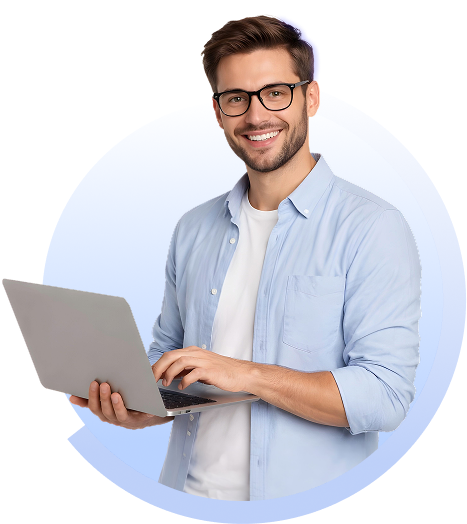
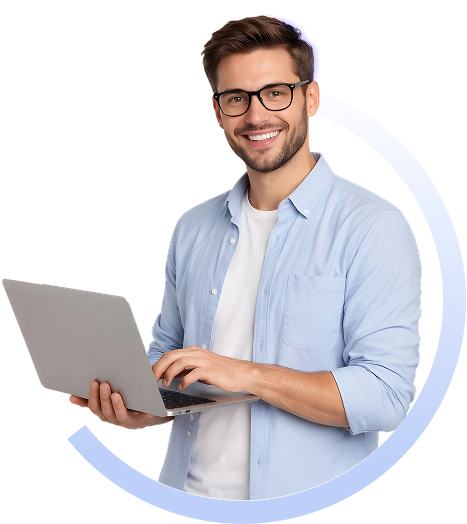
qwertyu

diff --git a/src/components/Hero.jsx b/src/components/Hero.jsx
@@ -74,8 +74,8 @@ const Hero = () => {
         {/* Right column */}
         <div className="relative mx-auto flex w-[35%] justify-center">
           {/* Placeholder photo */}
-          <div className="relative flex w-full items-end justify-center  ">
-            <img src={HeroBoy} alt="Hero Boy" className="max-w-[490px]" />
+          <div className="relative flex w-full items-end justify-center heroBoy-container  ">
+            <img src={HeroBoy} alt="Hero Boy" className="max-w-[490px] z-5" />
           </div>
 
           {/* Top-left floating card */}
@@ -92,7 +92,7 @@ const Hero = () => {
           </div>
 
           {/* Bottom floating cards */}
-          <div className="absolute bottom-20 left-2 w-44 rounded-lg bg-white p-4 shadow-lg">
+          <div className="absolute bottom-20 left-2 w-44 rounded-lg bg-white p-4 shadow-lg z-10">
             <div className="flex items-center gap-2">
               <LuSquareCode size={28} className="text-blue-600" />
               <div className="">
@@ -113,7 +113,7 @@ const Hero = () => {
             </div>
           </div>
 
-          <div className="absolute bottom-0 left-2 w-44 rounded-lg bg-white p-4 shadow-lg">
+          <div className="absolute bottom-0 left-2 w-44 rounded-lg bg-white p-4 shadow-lg z-10">
             <div className="flex items-center gap-2">
               <IoBugOutline size={28} className="text-blue-600" />
 

diff --git a/src/app.css b/src/app.css
@@ -122,6 +122,12 @@
   text-transform: capitalize;
   color: var(--White, #ffffff);
 }
+.hero-section .heroBoy-container {
+  background-image: url(./assets/heroBoyOverlay.png);
+  background-position: 86% 86%;
+  background-size: calc(100% - 30px);
+  background-repeat: no-repeat;
+}
 
 /* cta-section */
 
